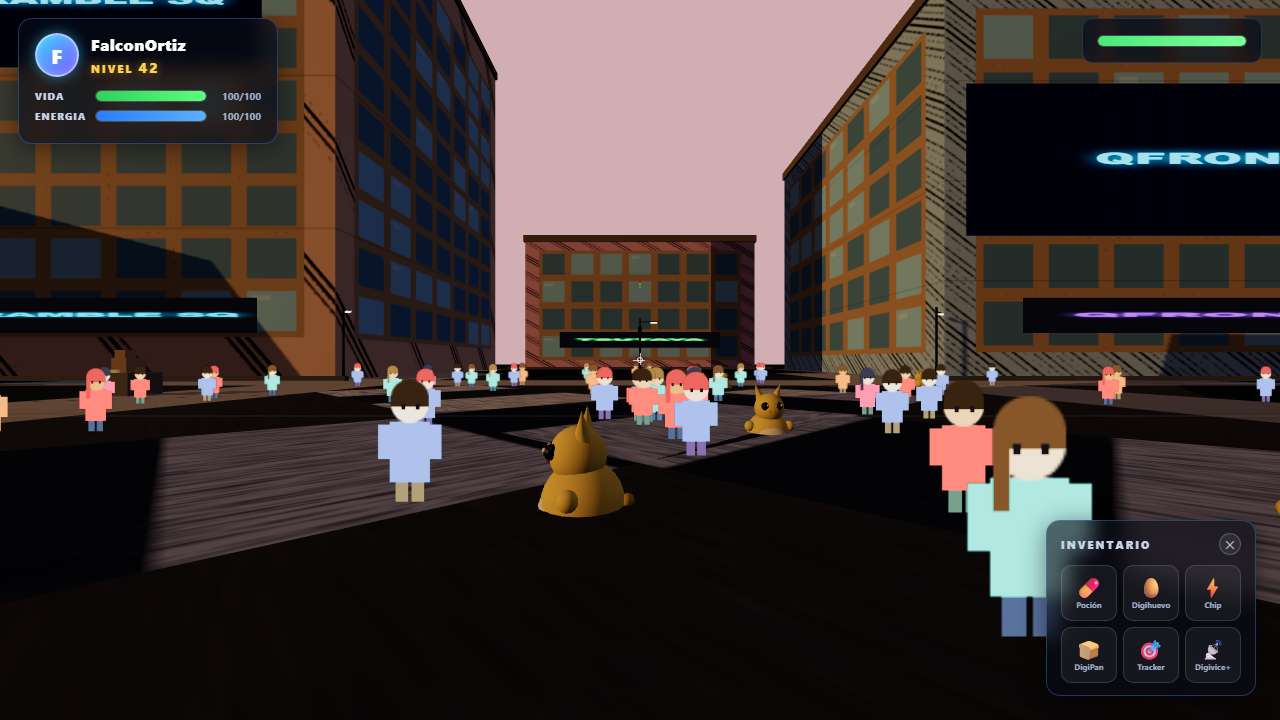
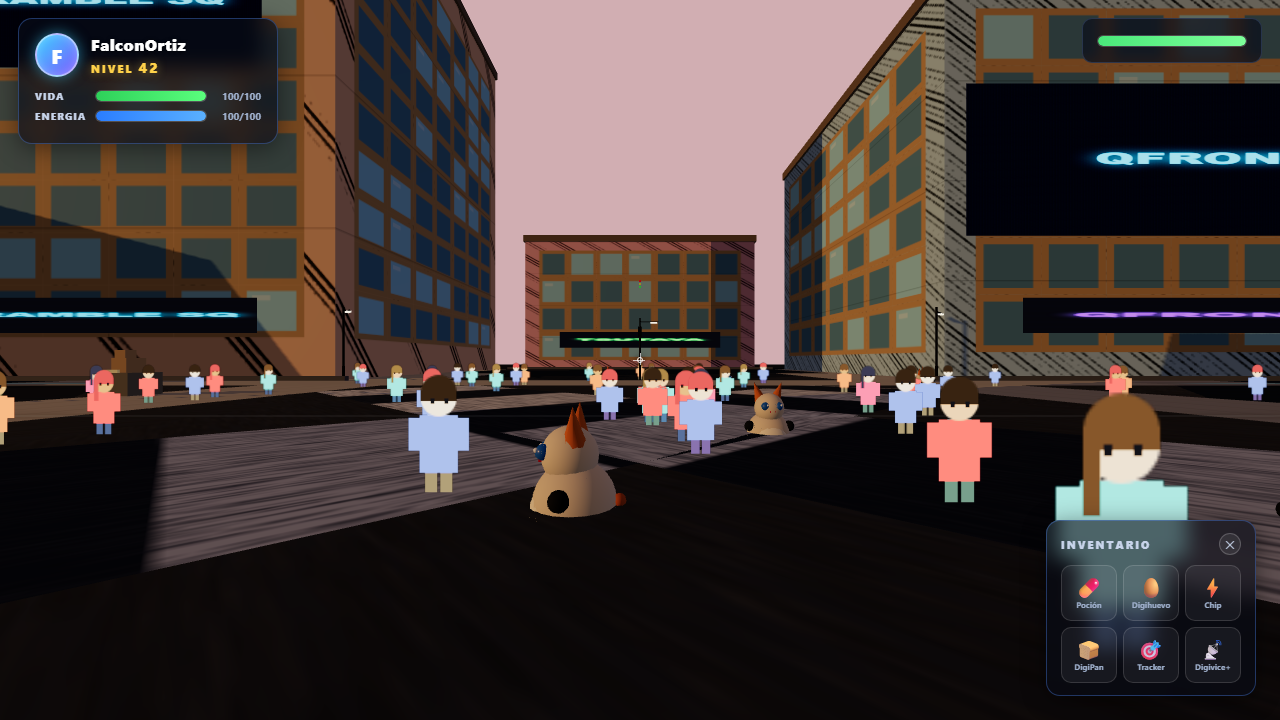
feat: modelos digimon según referencias de Desktop/DIGIMON — Agumon ojos verdes, Patamon crema/naranja con orejas ala y extremidades negras
- Assets de referencia copiados a docs/referencias/assets/ (7 imagenes)
- Agumon: cuerpo naranja brillante #e08030, ojos verdes #2ec44a, garras blancas afiladas
- Patamon: cuerpo crema #f0e0c8, orejas naranja #e08030 tipo ala, ojos azules #3a7ad8,
  manos/pies negros #20242c, cola corta
- Registry colors sincronizados con las referencias
- Paletas extraidas de las imagenes con PIL para precision

diff --git a/src/digimon/models.js b/src/digimon/models.js
@@ -10,13 +10,18 @@ import * as THREE from 'three';
 
 const SKIN = {
   agumon: {
-    body: 0xff8c2a, belly: 0xffd9a0, dark: 0xc96a1a,
-    eyes: 0x20242c, eyeHighlight: 0xffffff,
+    // Prompt: naranja brillante, OJOS VERDES grandes, hocico corto con dientes blancos,
+    // garras blancas afiladas, cola corta y rechoncha
+    body: 0xe08030, belly: 0xffe0b0, dark: 0xb06020,
+    eyes: 0x2ec44a, eyeHighlight: 0xffffff,
     scale: 1.0, yOff: 0.55
   },
   patamon: {
-    body: 0xffe066, belly: 0xfff6d8, dark: 0xd9b23b,
-    eyes: 0x20242c, eyeHighlight: 0xffffff,
+    // Prompt: CREMA y naranja, OJOS AZULES grandes, orejas naranja tipo ala de
+    // murciélago, manos y pies NEGROS pequeños, cola corta, flotando
+    body: 0xf0e0c8, belly: 0xfff6e0, dark: 0xd07030,
+    ears: 0xe08030, eyes: 0x3a7ad8, eyeHighlight: 0xffffff,
+    limbs: 0x20242c,   // manos y pies negros
     scale: 0.95, yOff: 0.5
   }
 };
@@ -77,7 +82,7 @@ function buildAgumon(s = SKIN.agumon) {
   teeth.position.set(0, 0.58, 0.52);
   g.add(teeth);
 
-  // ojos grandes
+  // ojos grandes (VERDES para Agumon, según prompt)
   const eyeGeo = new THREE.SphereGeometry(0.085, 10, 8);
   const eyeL = mesh(eyeGeo, eyeM); eyeL.position.set(-0.17, 0.82, 0.38); g.add(eyeL);
   const eyeR = mesh(eyeGeo.clone(), eyeM); eyeR.position.set(0.17, 0.82, 0.38); g.add(eyeR);
@@ -93,11 +98,11 @@ function buildAgumon(s = SKIN.agumon) {
   armL.position.set(-0.55, 0.25, 0.1); g.add(armL);
   const armR = mesh(new THREE.SphereGeometry(0.16, 10, 8), body);
   armR.position.set(0.55, 0.25, 0.1); g.add(armR);
-  // garras
-  const clawL = mesh(new THREE.BoxGeometry(0.07, 0.12, 0.07), std(0xf0f0ea));
-  clawL.position.set(-0.55, 0.12, 0.14); g.add(clawL);
-  const clawR = mesh(new THREE.BoxGeometry(0.07, 0.12, 0.07), std(0xf0f0ea));
-  clawR.position.set(0.55, 0.12, 0.14); g.add(clawR);
+  // garras blancas afiladas (prompt)
+  const clawL = mesh(new THREE.BoxGeometry(0.07, 0.14, 0.07), std(0xf8f8f2));
+  clawL.position.set(-0.55, 0.11, 0.15); g.add(clawL);
+  const clawR = mesh(new THREE.BoxGeometry(0.07, 0.14, 0.07), std(0xf8f8f2));
+  clawR.position.set(0.55, 0.11, 0.15); g.add(clawR);
   parts.armL = armL; parts.armR = armR; parts.clawL = clawL; parts.clawR = clawR;
 
   // piernas
@@ -143,22 +148,22 @@ function buildPatamon(s = SKIN.patamon) {
   g.add(head);
   parts.head = head;
 
-  // orejas grandes de murciélago (patamon)
-  const earGeo = new THREE.ConeGeometry(0.13, 0.42, 8);
-  const earL = mesh(earGeo, body);
-  earL.position.set(-0.24, 1.0, -0.02);
+  // orejas grandes naranja tipo ala de murciélago (prompt: Wing-Ear Mammal)
+  const earGeo = new THREE.ConeGeometry(0.15, 0.48, 8);
+  const earL = mesh(earGeo, std(s.ears));
+  earL.position.set(-0.26, 1.02, -0.02);
   earL.rotation.z = 0.35;
   g.add(earL);
-  const earR = mesh(earGeo.clone(), body);
-  earR.position.set(0.24, 1.0, -0.02);
+  const earR = mesh(earGeo.clone(), std(s.ears));
+  earR.position.set(0.26, 1.02, -0.02);
   earR.rotation.z = -0.35;
   g.add(earR);
   parts.earL = earL; parts.earR = earR;
 
-  // cara: ojos gigantes
+  // cara: ojos gigantes AZULES (prompt)
   const eyeGeo = new THREE.SphereGeometry(0.1, 10, 8);
-  const eyeL = mesh(eyeGeo, eyeM); eyeL.position.set(-0.16, 0.68, 0.36); g.add(eyeL);
-  const eyeR = mesh(eyeGeo.clone(), eyeM); eyeR.position.set(0.16, 0.68, 0.36); g.add(eyeR);
+  const eyeL = mesh(eyeGeo, std(s.eyes, 0.2)); eyeL.position.set(-0.16, 0.68, 0.36); g.add(eyeL);
+  const eyeR = mesh(eyeGeo.clone(), std(s.eyes, 0.2)); eyeR.position.set(0.16, 0.68, 0.36); g.add(eyeR);
   const glint = std(s.eyeHighlight, 0.2);
   const gl = mesh(new THREE.SphereGeometry(0.032, 6, 6), glint);
   gl.position.set(-0.12, 0.71, 0.44); g.add(gl);
@@ -170,21 +175,22 @@ function buildPatamon(s = SKIN.patamon) {
   mouth.position.set(0, 0.56, 0.42);
   g.add(mouth);
 
-  // brazos cortitos
-  const armL = mesh(new THREE.SphereGeometry(0.13, 10, 8), body);
+  // brazos cortitos NEGROS (prompt: tiny black hands)
+  const limbMat = std(s.limbs);
+  const armL = mesh(new THREE.SphereGeometry(0.13, 10, 8), limbMat);
   armL.position.set(-0.48, 0.18, 0.12); g.add(armL);
-  const armR = mesh(new THREE.SphereGeometry(0.13, 10, 8), body);
+  const armR = mesh(new THREE.SphereGeometry(0.13, 10, 8), limbMat);
   armR.position.set(0.48, 0.18, 0.12); g.add(armR);
   parts.armL = armL; parts.armR = armR;
 
-  // piernas
+  // piernas NEGRAS pequeñas (prompt)
   const legGeo = new THREE.SphereGeometry(0.15, 10, 8);
-  const legL = mesh(legGeo, body); legL.scale.set(1, 0.7, 1); legL.position.set(-0.2, -0.4, 0.1); g.add(legL);
-  const legR = mesh(legGeo.clone(), body); legR.scale.set(1, 0.7, 1); legR.position.set(0.2, -0.4, 0.1); g.add(legR);
+  const legL = mesh(legGeo, limbMat); legL.scale.set(1, 0.7, 1); legL.position.set(-0.2, -0.4, 0.1); g.add(legL);
+  const legR = mesh(legGeo.clone(), limbMat); legR.scale.set(1, 0.7, 1); legR.position.set(0.2, -0.4, 0.1); g.add(legR);
   parts.legL = legL; parts.legR = legR;
 
-  // cola corta
-  const tail = mesh(new THREE.SphereGeometry(0.09, 8, 6), dark);
+  // cola corta (prompt)
+  const tail = mesh(new THREE.SphereGeometry(0.09, 8, 6), std(s.dark));
   tail.scale.set(1.3, 1, 1);
   tail.position.set(0, 0.05, -0.55);
   g.add(tail);

diff --git a/src/digimon/registry.js b/src/digimon/registry.js
@@ -9,7 +9,7 @@ export const DIGIMON_SPECIES = {
     name: 'Agumon',
     element: 'fire',
     hp: 90, atk: 12, def: 8, sp: 10,
-    color: 0xff8c2a,
+    color: 0xe08030,      // naranja brillante (referencia Orange Dino Partner)
     moves: ['babyFlame', 'peppersBreath'],
     description: 'Un digimon reptil que sueña con ser fuerte. Su Peppers Breath quema todo.',
     digivolvesTo: 'greymon'
@@ -19,7 +19,7 @@ export const DIGIMON_SPECIES = {
     name: 'Patamon',
     element: 'air',
     hp: 75, atk: 9, def: 7, sp: 14,
-    color: 0xffe066,
+    color: 0xf0e0c8,      // crema (referencia Wing-Ear Mammal Partner)
     moves: ['boomBubble', 'airShot'],
     description: 'Una cría alada alegre. Sus Boom Bubbles explotan con sorpresa.',
     digivolvesTo: 'angemon'
